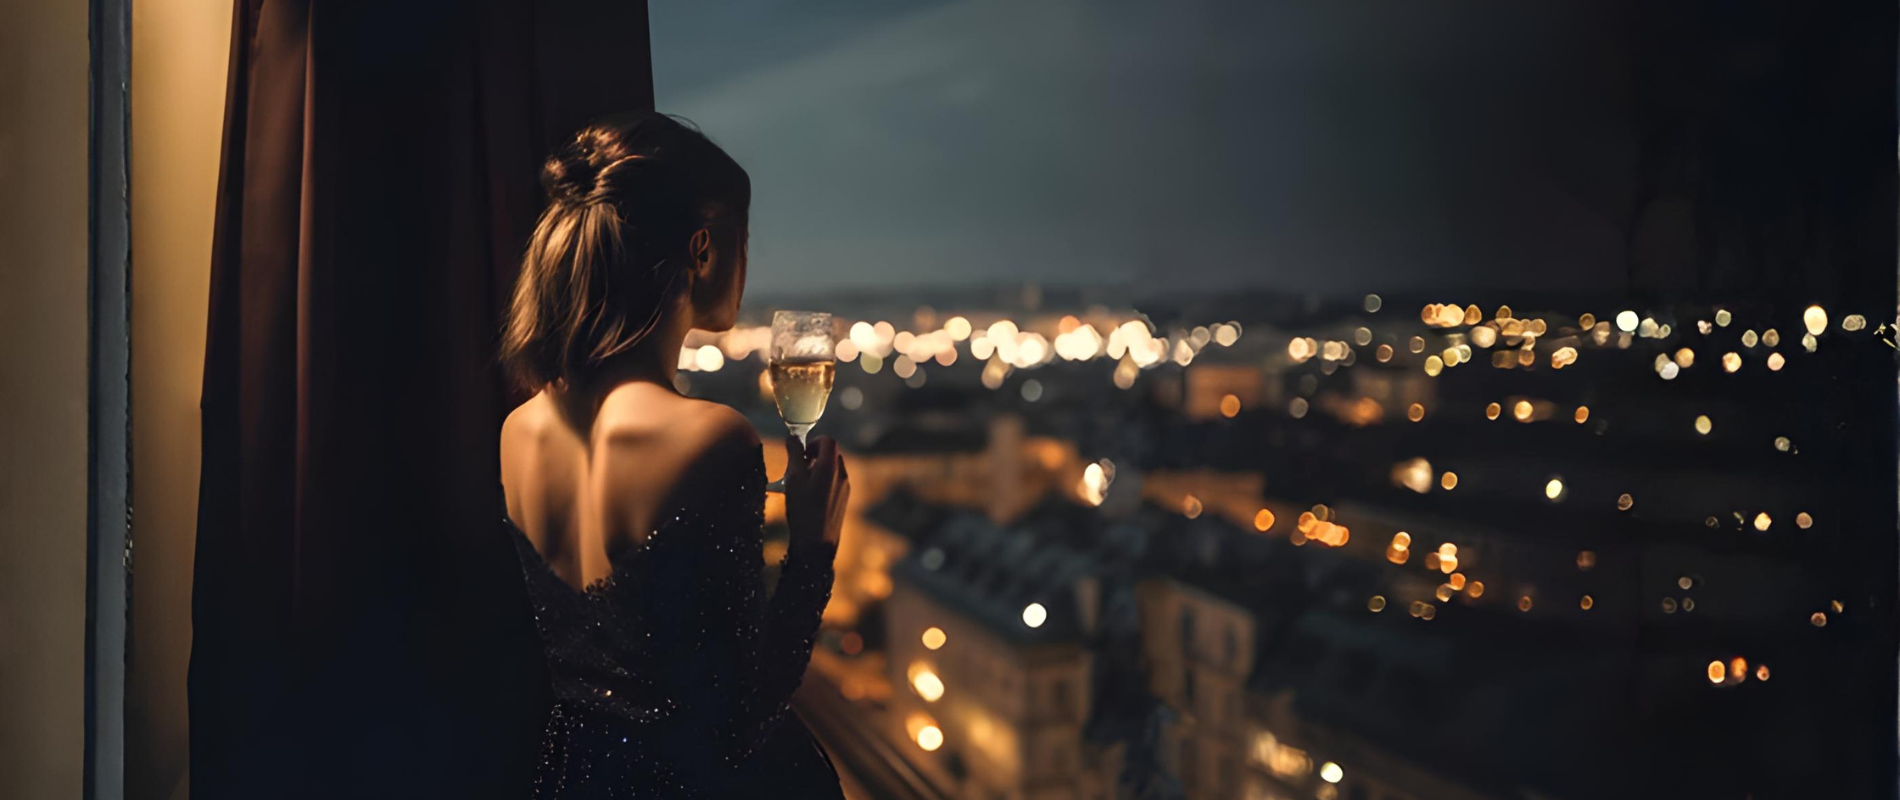
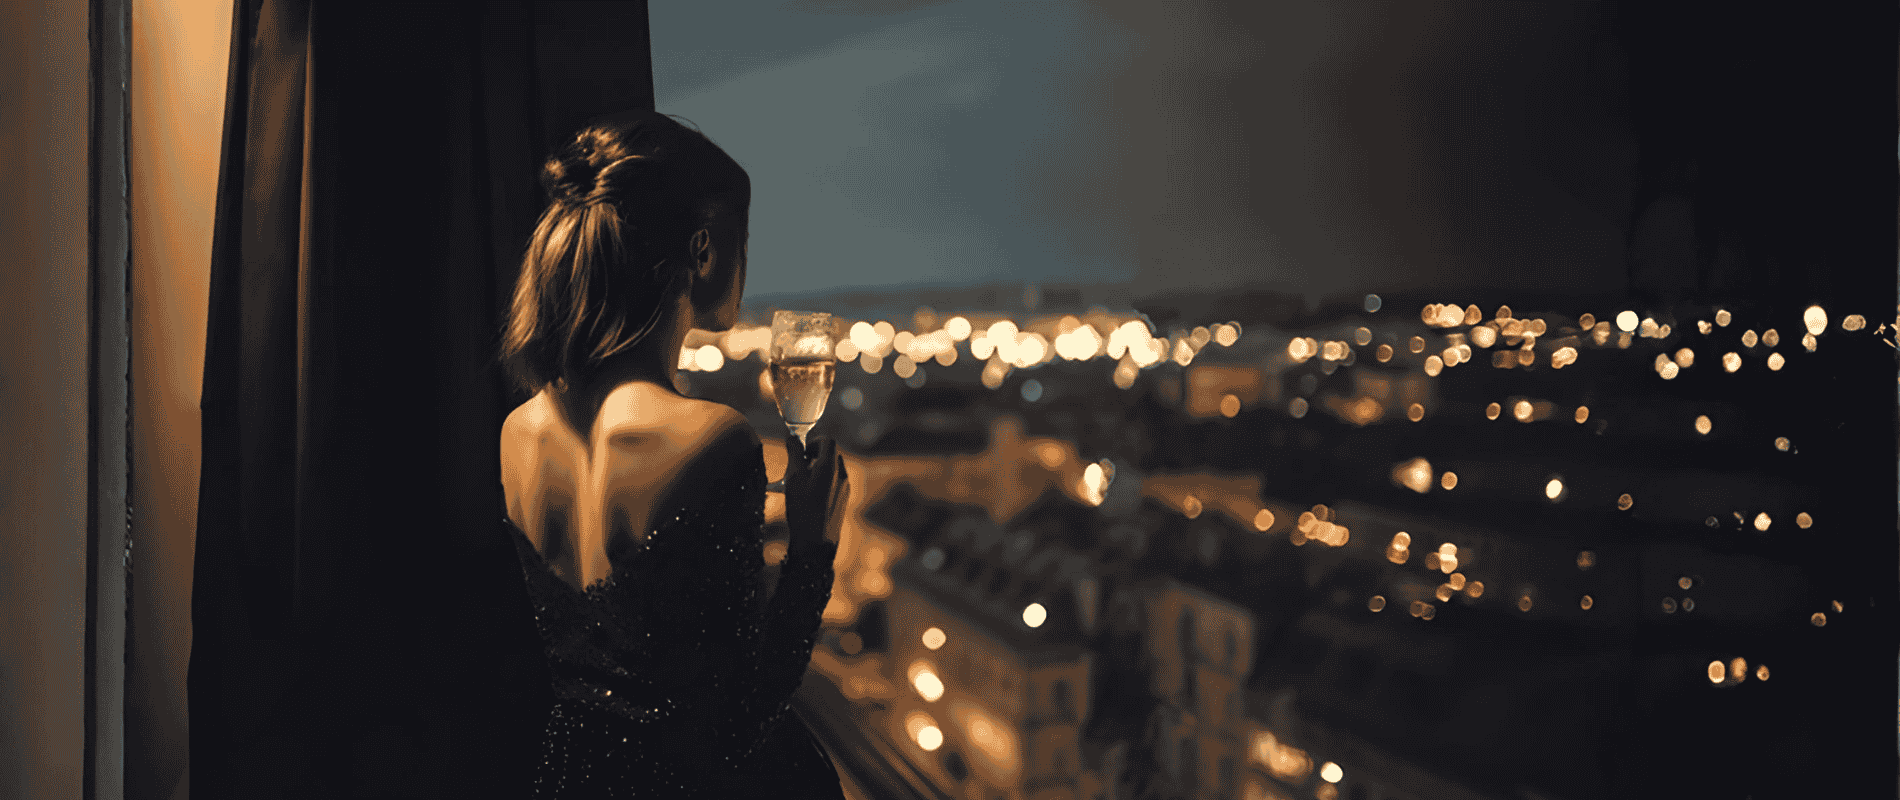
merge

diff --git a/index.html b/index.html
@@ -263,8 +263,7 @@
             data-slider-options='{"effect":"fade", "loop":true, "autoplay":false, "autoHeight": "false"}'>
             <div class="swiper-wrapper">
                 <div class="swiper-slide">
-                    <div class="hero-inner hero-style1" data-bg-src="assets/img/prive/banner/l-1.png"
-                        style="transform: rotateY(180deg);">
+                    <div class="hero-inner hero-style1" data-bg-src="assets2/img/banner/l-1.jpg">
                         <!-- <img src="assets/img/prive/banner/l-1.png" alt=""> -->
                         <div class="container">
                             <div class="row gy-50 gx-40 align-items-center">
@@ -284,7 +283,7 @@
                     </div>
                 </div>
                 <div class="swiper-slide">
-                    <div class="hero-inner hero-style1" data-bg-src="projects/images/crescent/banner/2.png">
+                    <div class="hero-inner hero-style1" data-bg-src="assets2/img/banner/l-3.jpg">
                         <!-- <img src="projects/images/crescent/banner/2.png" alt=""> -->
                         <div class="container">
                             <div class="row gy-50 gx-40 align-items-center">
@@ -304,14 +303,14 @@
                     </div>
                 </div>
                 <div class="swiper-slide">
-                    <div class="hero-inner hero-style1" data-bg-src="assets/img/prive/banner/l-3.png">
+                    <div class="hero-inner hero-style1" data-bg-src="assets2/img/banner/2.webp">
                         <!-- <img src="assets/img/prive/banner/l-3.png" alt=""> -->
                         <div class="container">
                             <div class="row gy-50 gx-40 align-items-center">
                                 <div class="col-xxl-7 col-xl-7 col-lg-8">
                                     <div class="hero-1-content pe-xl-4">
-                                        <h1 class="hero-title" data-ani="slideinup" data-ani-delay="0.2s">Experience
-                                            Spaces That Define
+                                        <h1 class="hero-title" data-ani="slideinup" data-ani-delay="0.2s">Spaces That
+                                            Define
                                             <span class="title2 text-theme">Modern Living</span>
                                         </h1>
                                         <div class="btn-group justify-content-center" data-ani="slideinup"
@@ -323,46 +322,6 @@
                         </div>
                     </div>
                 </div>
-                <div class="swiper-slide">
-                    <div class="hero-inner hero-style1" data-bg-src="projects/images/project-images/Bunglow_3.jpg">
-                        <!-- <img src="projects/images/project-images/Bunglow_3.jpg" alt=""> -->
-                        <div class="container">
-                            <div class="row gy-50 gx-40 align-items-center">
-                                <div class="col-xxl-7 col-xl-7 col-lg-8">
-                                    <div class="hero-1-content pe-xl-4">
-                                        <h1 class="hero-title" data-ani="slideinup" data-ani-delay="0.2s">Experience
-                                            Spaces That Define
-                                            <span class="title2 text-theme">Modern Living</span>
-                                        </h1>
-                                        <div class="btn-group justify-content-center" data-ani="slideinup"
-                                            data-ani-delay="0.4s"><a href="property.html"
-                                                class="th-btn style2 pill">Explore Property</a></div>
-                                    </div>
-                                </div>
-                            </div>
-                        </div>
-                    </div>
-                </div>
-                <!-- <div class="swiper-slide">
-                    <div class="hero-inner hero-style1" data-bg-src="assets/img/prive/banner/l-2.png">
-                        <div class="container">
-                            <div class="row gy-50 gx-40 align-items-center">
-                                <div class="col-xxl-7 col-xl-7 col-lg-8">
-                                    <div class="hero-1-content pe-xl-4">
-                                        <h1 class="hero-title" data-ani="slideinup" data-ani-delay="0.2s">Discover a
-                                            Lifestyle Crafted by
-                                            <span class="title2 text-theme">Rustomjee</span>
-                                        </h1>
-                                        <div class="btn-group justify-content-center" data-ani="slideinup"
-                                            data-ani-delay="0.4s"><a href="property.html"
-                                                class="th-btn style2 pill">Explore Property</a></div>
-
-                                    </div>
-                                </div>
-                            </div>
-                        </div>
-                    </div>
-                </div> -->
             </div>
             <div class="slider-pagination"></div>
             <div class="slider-pagination-wrapper"><button data-slider-prev="#heroSlider1"
